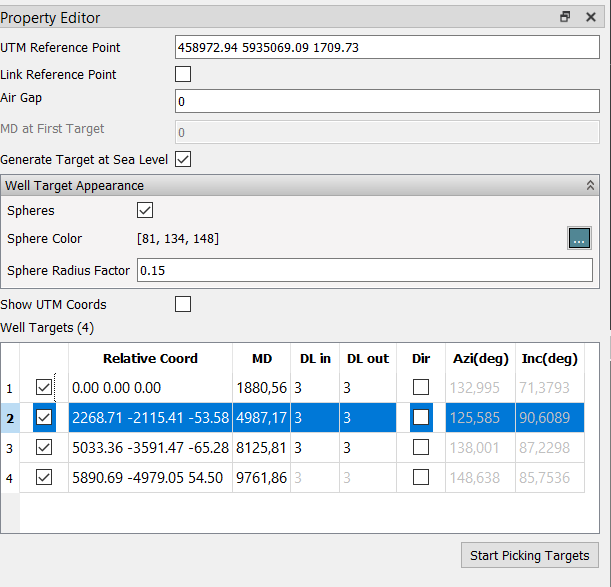
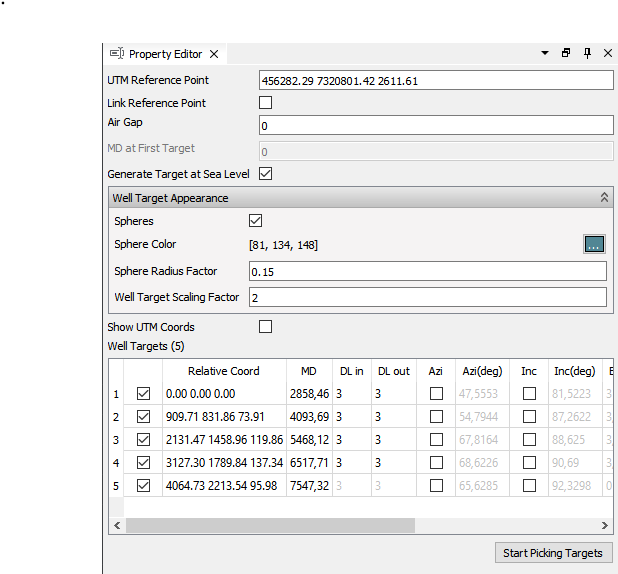
Improved well path

Changed region(s): [[0.0, 0.0, 1.0, 1.0]]

diff --git a/content/Wells-and-Completions/CreateNewWellPaths.md b/content/Wells-and-Completions/CreateNewWellPaths.md
@@ -6,7 +6,7 @@ weight = 30
 
 ![]({{< relref "" >}}images/3d-main-window/WellPathCreation.png)
 
-ResInsight lets the user create new/custom well paths by clicking in the 3D view. A self created well path will behave the same way as an ordinary imported well path.
+ResInsight lets the user create new/custom well paths by clicking in the 3D view. A self created well path will behave the same way as an imported well path.
 
 [Building a multilateral well path]({{< relref "createmultilateralwellpaths" >}}) 
 
@@ -33,9 +33,7 @@ Well targets property editor fields:
 
 Controls the visibility and appearance of spheres at well target locations in addition to 3D interaction handles. The 3D interaction handles will be visible only when the Well Target object is selected, but the spheres will be always be visible if enabled.
 
-
 **Well Targets**
-
 List of all defined well targets. The editor will have a contrast background color when in picking state.
 
 - **Point** - Target position relative to reference point.
@@ -50,6 +48,11 @@ A well path defined by well targets may be edited by either editing coordinates 
 ![]({{< relref "" >}}images/3d-main-window/WellTargets.png)
 
 Clicking and dragging the blue part of a target, it can be moved along the Z axis only. Clicking and dragging the magenta part of a target, it can be moved freely around.
+
+### Well Path Duplication
+To duplicate an existing well path, select **Duplicate** from the right-click menu of a well path in the **Project Tree** or right-click on the well path geometry in the 3D view. This operation will create a new well path with a set of well targets.
+
+The full geometry of the new well path is an estimate of the source well path, so the geometry might differ slightly.
 
 ### Well Target Interaction Operations
 When the well target handles are active in the 3D view, the following operations are possible when pressing left mouse button on well target handles:

diff --git a/content/getting-started/whats-new/releasenotes_2023_06.md b/content/getting-started/whats-new/releasenotes_2023_06.md
@@ -69,7 +69,7 @@ A color selection dialog can be opened by clicking on the color icon in the **Pr
 - Show Python version in About Dialog
 - Full screen mode to maximize screen space for 3D view
 - [Fault distance]({{< relref "faultdistance" >}}) calculations performs faster 
-- In some models, the size of well targets was to small to work with. A scaling factor well targets is added.
+- In some models, the size of well targets was to small to work with. A scaling factor for [Well Targets]({{< relref "createnewwellpaths" >}}) is now available.
 
 
 
